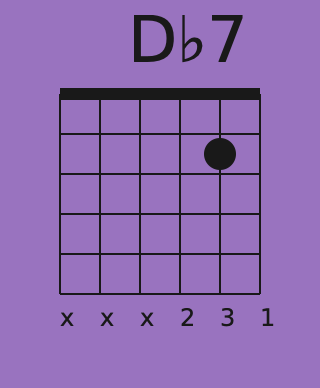
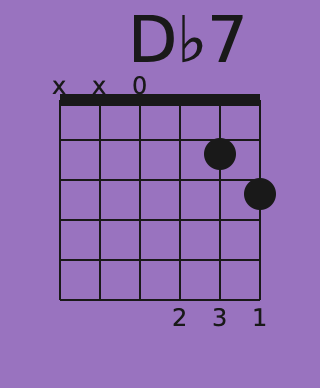
Move unplayed and open string fingering to top

diff --git a/src/lib.rs b/src/lib.rs
@@ -51,7 +51,7 @@ fn draw_note(
     }
 
     let sizes = [16, 24, 32, 40];
-    let offset_top = 64.;
+    let offset_top = 78.;
     let radius = sizes[size as usize] as f64;
     context.arc(
         string as i32 as f64 * string_space + (margin * 2.), // string
@@ -64,7 +64,7 @@ fn draw_note(
 }
 
 fn draw_grid(context: &Context, string_space: f64, margin: f64, has_open: bool) {
-    let offset_top = 64.;
+    let offset_top = 78.;
 
     let end = margin + 5. * string_space;
     for i in 0..6 {
@@ -98,15 +98,22 @@ fn draw_fingering(
     string_space: f64,
     margin: f64,
 ) {
-    let offset_top = 64.;
+    let offset_top = 78.;
     let font_offset = 32.;
+    let font_offset_top = 14.;
 
     // 5 = last string index
-    let end = margin + 5. * string_space;
+    // let end = margin + 5. * string_space;
+    let end = if finger == "x" || finger == "0" {
+        margin + offset_top - font_offset_top
+    } else {
+        margin + (5. * string_space) + font_offset + offset_top
+    };
 
+    let font_width = 8.;
     context.move_to(
-        string as i32 as f64 * string_space + (margin * 2.),
-        end + font_offset + offset_top,
+        string as i32 as f64 * string_space + (margin * 2.) - font_width,
+        end,
     );
     context
         .show_text(&finger.to_string()[..])
@@ -114,7 +121,7 @@ fn draw_fingering(
 }
 
 fn draw_min_fret(context: &Context, min_fret: &i32, string_space: f64, margin: f64) {
-    let offset_top = 64.;
+    let offset_top = 78.;
     context.move_to(
         margin * 0.75,
         (string_space * 2.) + offset_top + string_space / 2.,
